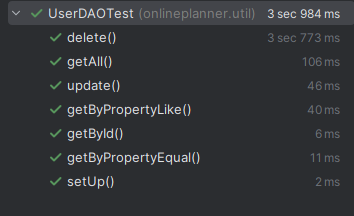
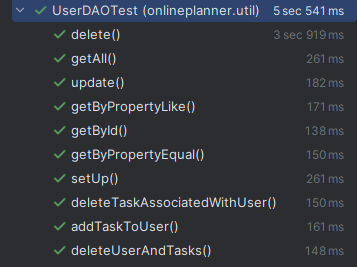
Week 5 done!

diff --git a/src/test/java/onlineplanner/util/UserDAOTest.java b/src/test/java/onlineplanner/util/UserDAOTest.java
@@ -18,6 +18,7 @@ class UserDAOTest {
     GenericDAO<Task> taskDAO;
 
     @BeforeEach
+    @Test
     void setUp() {
         // Initialize the GenericDAOs for User and Task
         userDAO = new GenericDAO<>(User.class);
@@ -51,10 +52,6 @@ class UserDAOTest {
         // Retrieve the user again and assert that the update occurred
         User updatedUser = userDAO.getById(1);
         assertEquals("updated_username", updatedUser.getUsername());
-
-        // Optionally, restore the original value after the test
-        existingUser.setUsername(originalUsername);
-        userDAO.update(existingUser);
     }
 
     @Test
@@ -69,7 +66,7 @@ class UserDAOTest {
     void getAll() {
         // Test fetching all users
         List<User> users = userDAO.getAll();
-        assertEquals(4, users.size());
+        assertEquals(5, users.size());
     }
 
     @Test
@@ -112,7 +109,7 @@ class UserDAOTest {
         assertNotNull(savedTask, "Saved task should not be null");
         assertEquals(user.getId(), savedTask.getUser().getId(), "Task should be associated with the correct user");
     }
-    /*
+
     @Test
     void deleteTaskAssociatedWithUser() {
         // Retrieve user with ID 5 and ensure it exists
@@ -139,18 +136,13 @@ class UserDAOTest {
 
     @Test
     void deleteUserAndTasks() {
-        // Retrieve an existing user with tasks, ensuring the tasks collection is initialized
+        // Retrieve the user to be deleted
         User user = userDAO.getById(3);
         assertNotNull(user, "User with ID 3 should exist");
 
-        // Initialize the tasks collection within the current session to avoid LazyInitializationException
-        Hibernate.initialize(user.getTasks());
-
-        // Retrieve and delete all tasks associated with the user
-        List<Task> userTasks = new ArrayList<>(user.getTasks());
-        for (Task task : userTasks) {
-            taskDAO.delete(task); // Delete each task
-        }
+        // Retrieve all tasks associated with the user
+        List<Task> userTasks = taskDAO.getTasksByUserId(user.getId());
+        assertFalse(userTasks.isEmpty(), "User should have tasks");
 
         // Delete the user
         userDAO.delete(user);
@@ -158,13 +150,10 @@ class UserDAOTest {
         // Verify the user is deleted
         assertNull(userDAO.getById(3), "User should be deleted");
 
-        // Verify the tasks are deleted
+        // Verify no tasks exist for the deleted user
         for (Task task : userTasks) {
-            assertNull(taskDAO.getById(task.getId()), "Task should be deleted");
+            assertNull(taskDAO.getById(task.getId()),
+                    "Task with ID " + task.getId() + " should be deleted");
         }
     }
-
-     */
-
-
 }

diff --git a/src/test/java/onlineplanner/util/TaskDAOTest.java b/src/test/java/onlineplanner/util/TaskDAOTest.java
@@ -4,6 +4,8 @@ import onlineplanner.persistence.GenericDAO;
 import onlineplanner.entity.Task;
 import org.junit.jupiter.api.BeforeEach;
 import org.junit.jupiter.api.Test;
+
+import java.time.LocalDate;
 import java.util.List;
 import static org.junit.jupiter.api.Assertions.*;
 
@@ -49,7 +51,7 @@ class TaskDAOTest {
     @Test
     void getAll() {
         List<Task> tasks = genericDAO.getAll();
-        assertEquals(9, tasks.size());
+        assertEquals(10, tasks.size());
     }
 
     @Test
@@ -63,5 +65,33 @@ class TaskDAOTest {
         List<Task> tasks = genericDAO.getByPropertyLike("title", "Read");
         assertEquals(1, tasks.size());
     }
-    // #TODO tests for getTasksForTodoDate  getTasksForDueDate getTaskbyDate
+    @Test
+    void getTasksForTodoDate() {
+        // Define the date for which we want to fetch tasks
+        LocalDate todoDate = LocalDate.of(2024, 12, 15);
+
+        // Fetch tasks with the specified tododate
+        List<Task> tasks = genericDAO.getByPropertyEqual("todoDate", todoDate);
+
+        // Assertions
+        assertNotNull(tasks);
+        assertFalse(tasks.isEmpty(), "Tasks list should not be empty");
+        assertEquals(1, tasks.size());
+        assertEquals(todoDate, tasks.get(0).getTodoDate());
+    }
+
+    @Test
+    void getTasksForDueDate() {
+        // Define the date for which we want to fetch tasks
+        LocalDate dueDate = LocalDate.of(2024, 12, 15);
+
+        // Fetch tasks with the specified due date
+        List<Task> tasks = genericDAO.getByPropertyEqual("dueDate", dueDate);
+
+        // Assertions
+        assertNotNull(tasks);
+        assertFalse(tasks.isEmpty(), "Tasks list should not be empty");
+        assertEquals(3, tasks.size());
+        assertEquals(dueDate, tasks.get(0).getDueDate());
+    }
 }

diff --git a/src/main/java/onlineplanner/persistence/GenericDAO.java b/src/main/java/onlineplanner/persistence/GenericDAO.java
@@ -4,6 +4,7 @@ import jakarta.persistence.criteria.CriteriaBuilder;
 import jakarta.persistence.criteria.CriteriaQuery;
 import jakarta.persistence.criteria.Expression;
 import jakarta.persistence.criteria.Root;
+import onlineplanner.entity.Task;
 import org.apache.logging.log4j.LogManager;
 import org.apache.logging.log4j.Logger;
 import org.hibernate.Session;
@@ -133,4 +134,22 @@ public class GenericDAO<T> {
     private Session getSession(){
         return SessionFactoryProvider.getSessionFactory().openSession();
     }
+    /**
+     *
+     * @param userId
+     * @return list of tasks based on cetain userID
+     */
+    public List<Task> getTasksByUserId(int userId) {
+        try (Session session = getSession()) {
+            CriteriaBuilder builder = session.getCriteriaBuilder();
+            CriteriaQuery<Task> query = builder.createQuery(Task.class);
+            Root<Task> root = query.from(Task.class);
+
+            // Create the query to filter tasks by user ID
+            query.select(root).where(builder.equal(root.get("user").get("id"), userId));
+
+            return session.createQuery(query).getResultList();
+        }
+    }
+
 }

diff --git a/src/main/java/onlineplanner/persistence/TaskDAO.java b/src/main/java/onlineplanner/persistence/TaskDAO.java
@@ -179,7 +179,6 @@ public class TaskDAO {
     public List<Task> getTasksForDueDate(LocalDate date) {
         return getTasksByDate("dueDate", date);
     }
-    // #TODO make this better
     // Sample method to get tasks for a week
     public Map<DayOfWeek, List<Task>> getTasksForWeek(LocalDate startOfWeek) {
         Map<DayOfWeek, List<Task>> tasksByDay = new EnumMap<>(DayOfWeek.class);
